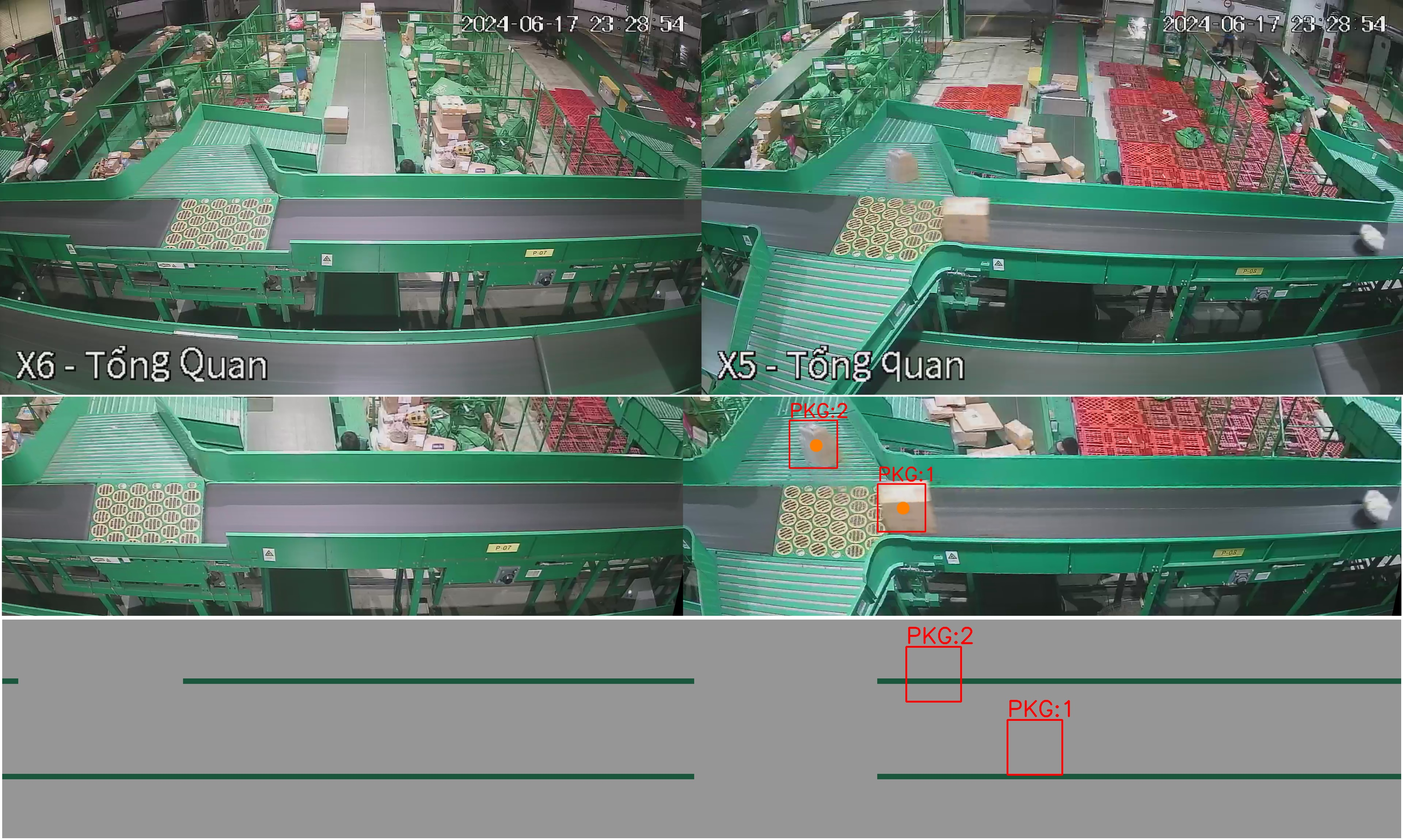
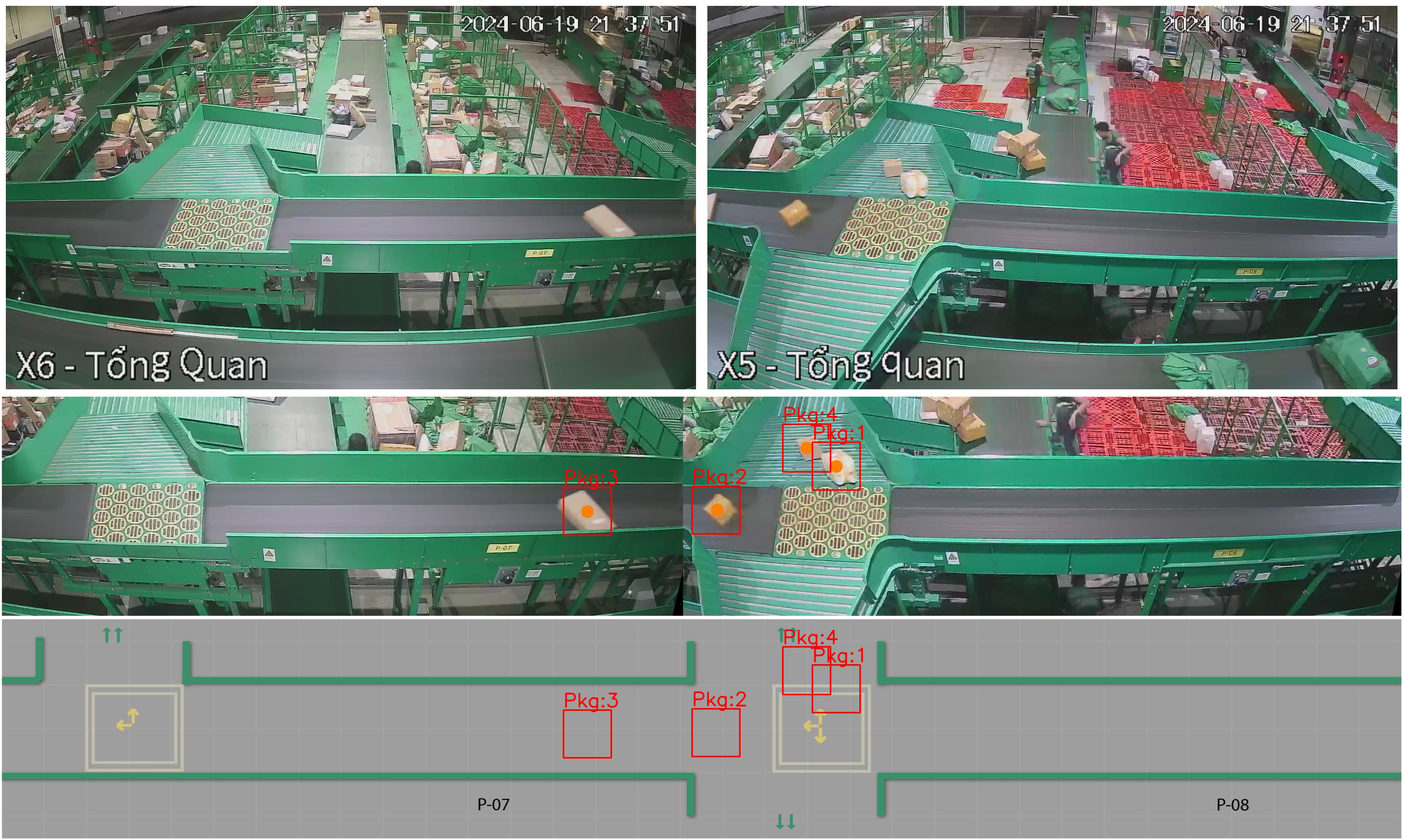
done track on 2 video

diff --git a/run.py b/run.py
@@ -10,7 +10,7 @@ import sys
 sys.path.append('./gvision')
 from gvision.tracker.byte_tracker import BYTETracker
 
-H = 500
+H = 700
 W  = 4408
 
 with open('./sample_data/roi_fullview.txt', 'r') as file:
@@ -18,12 +18,16 @@ with open('./sample_data/roi_fullview.txt', 'r') as file:
     roi_data = [float(x) for x in roi_data]
 
 # Convert ROI data into pairs
-roi_pairs = [(roi_data[i] * W, roi_data[i + 1] * 700) for i in range(0, len(roi_data), 2)]
+roi_pairs = [(roi_data[i] * W, roi_data[i + 1] * H) for i in range(0, len(roi_data), 2)]
 roi_pairs = [(int(x), int(y)) for x, y in roi_pairs]
 print("roi_pairs: ", roi_pairs)
-
 # Initialize the YOLO model
 model = YOLO('./pretrained/240124_yolov8s_package_640.pt')
+
+# save video output
+OUTPUT_VIDEO = "video_output_1.mp4"
+FPS = 15
+
 # init tracker
 track_thresh  = 0.5
 track_buffer = 30
@@ -52,11 +56,13 @@ def is_point_in_polygon(point, polygon):
 def process_video(video_path, result_queue, thread_name, homo_matrix):
     cap = cv2.VideoCapture(video_path)
     frame_count = 0
+    fps = cap.get(cv2.CAP_PROP_FPS)
+    print("FPS: ", fps)
     while cap.isOpened():
         ret, frame = cap.read()
         if not ret:
             break
-        if thread_name == "Thread_1" and frame_count < 14:
+        if thread_name == "Thread_1" and frame_count < 0:
             frame_count += 1
             continue
         predictions = model.predict(source = frame,
@@ -149,6 +155,19 @@ def match_points_across_frames(dict_points_all_frame, threshold=100):
     return matched_points
 
 def post_process(result_queues):
+    # save video output
+
+    fourcc = cv2.VideoWriter_fourcc(*'mp4v')
+    video_save = cv2.VideoWriter(OUTPUT_VIDEO, fourcc, FPS, (3840, 2298)) 
+
+    blink_interval_1 = 0.5  # Blinking interval in seconds
+    blink_state_1 = True  # Initial state of the blinking light
+    last_blink_time_1 = time.time()
+
+    blink_interval_2 = 0.5  # Blinking interval in seconds
+    blink_state_2 = True  # Initial state of the blinking light
+    last_blink_time_2 = time.time()
+
     while True:
         try:
             image_bgr = np.ones((H, W, 3), dtype=np.uint8) * 128
@@ -166,26 +185,17 @@ def post_process(result_queues):
                     dict_points_all_frame[thread_name] = results
                 if thread_name == "Thread_1":
                     homo_matrix = np.loadtxt('./sample_data/frame_video_1/matrix_homo.txt')
-                    warped_image1 = cv2.warpPerspective(frame, homo_matrix, (W, 700))
+                    warped_image1 = cv2.warpPerspective(frame, homo_matrix, (W, H))
                     frame1 = frame
-                else:
+                elif thread_name == "Thread_2":
                     homo_matrix = np.loadtxt('./sample_data/frame_video_2/matrix_homo.txt')
-                    warped_image2 = cv2.warpPerspective(frame, homo_matrix, (W, 700))
+                    warped_image2 = cv2.warpPerspective(frame, homo_matrix, (W, H))
                     frame2 = frame
 
-            combined_top_frame = np.hstack((frame2, frame1))
-            combined_width = combined_top_frame.shape[1]
-            combined_width = combined_top_frame.shape[1]
+            overview_image = np.ones((H, W, 3), dtype=np.uint8)* 150
 
-            overview_image = np.ones((700, W, 3), dtype=np.uint8)* 150
-            overview_image_BGR = np.ones((700, W, 3), dtype=np.uint8)* 150
-
-            cv2.line(overview_image_BGR, (0, 200), (W, 200), (60, 86, 26), 15)
-            cv2.line(overview_image_BGR, (0, 500), (W, 500), (60, 86, 26), 15)
-
-            overview_image_BGR = cv2.resize(overview_image_BGR, (combined_width, int(overview_image_BGR.shape[0] * (combined_width / overview_image_BGR.shape[1]))))
-            cv2.rectangle(overview_image_BGR, (1900, 0), (2400, 700), (150, 150, 150), -1)
-            cv2.rectangle(overview_image_BGR, (50, 0), (500, 200), (150, 150, 150), -1)
+            overview_image_BGR = cv2.imread("./sample_data/full_view.jpg")
+            overview_image_BGR = cv2.resize(overview_image_BGR, (W, H))
 
             overview_image[:, :2146] = warped_image2[:, :2146]
             overview_image[:, 2146:] = warped_image1[:, 2146:]
@@ -197,9 +207,9 @@ def post_process(result_queues):
             for match in matched_points:
                 if len(match) == 2:
                     p1, p2 = match
-                    cv2.circle(overview_image, p1, 20, (255, 0, 0), -1)
-                    cv2.circle(overview_image, p2, 20, (255, 0, 0), -1)
-                    cv2.line(overview_image, p1, p2, (0, 127, 255), 30)
+                    cv2.circle(overview_image, p1, 10, (255, 0, 0), -1)
+                    cv2.circle(overview_image, p2, 10, (255, 0, 0), -1)
+                    cv2.line(overview_image, p1, p2, (255, 255, 255), 10)
                     
                     box_xyxy = [int((p1[0] + p2[0]) * 0.5 - size_box/2),
                                   int((p1[1] + p2[1]) * 0.5 - size_box/2),
@@ -220,37 +230,56 @@ def post_process(result_queues):
                 bboxes = output.tlwh
                 id = output.track_id
                 bboxes = [bboxes[0], bboxes[1] , bboxes[0] + bboxes[2], bboxes[1] + bboxes[3], id]
-                overview_image = cv2.putText(overview_image, f'PKG:{str(id)}', (int(bboxes[0]), int(bboxes[1] - 10)), cv2.FONT_HERSHEY_SIMPLEX, 2, (0, 0, 255), 4 , cv2.LINE_AA)
+                overview_image = cv2.putText(overview_image, f'Pkg:{str(id)}', (int(bboxes[0]), int(bboxes[1] - 10)), cv2.FONT_HERSHEY_SIMPLEX, 2, (0, 0, 255), 4 , cv2.LINE_AA)
                 overview_image = cv2.rectangle(overview_image, (int(bboxes[0]), int(bboxes[1])), (int(bboxes[2]), int(bboxes[3])), (0, 0, 255), 3 )
 
-                overview_image_BGR = cv2.putText(overview_image_BGR, f'PKG:{str(id)}', (int(bboxes[0]), int(bboxes[1] - 10)), cv2.FONT_HERSHEY_SIMPLEX, 2, (0, 0, 255), 4 , cv2.LINE_AA)
+                overview_image_BGR = cv2.putText(overview_image_BGR, f'Pkg:{str(id)}', (int(bboxes[0]), int(bboxes[1] - 10)), cv2.FONT_HERSHEY_SIMPLEX, 2, (0, 0, 255), 4 , cv2.LINE_AA)
                 overview_image_BGR = cv2.rectangle(overview_image_BGR, (int(bboxes[0]), int(bboxes[1])), (int(bboxes[2]), int(bboxes[3])), (0, 0, 255), 3 )
-                
+
+                # blink led
+                if 2800 < bboxes[0] < 3200:
+                    current_time = time.time()
+                    if current_time - last_blink_time_1 > blink_interval_1:
+                        blink_state_1 = not blink_state_1
+                        last_blink_time_1 = current_time
+                    if blink_state_1:
+                        cv2.circle(overview_image_BGR, (2900, 100), 40, (0, 255, 255), -1)
+
+                if 700 < bboxes[0] < 1100:
+                    current_time = time.time()
+                    if current_time - last_blink_time_2 > blink_interval_2:
+                        blink_state_2 = not blink_state_2
+                        last_blink_time_2 = current_time
+                    if blink_state_2:
+                        cv2.circle(overview_image_BGR, (700, 100), 40, (0, 255, 255), -1)
 
             # draw to visualize
-
-           
-            
             # Draw bounding boxes around frame1 and frame2
-            cv2.rectangle(frame1, (0, 0), (frame1.shape[1], frame1.shape[0]), (255, 255, 255), 10)
-            cv2.rectangle(frame2, (0, 0), (frame2.shape[1], frame2.shape[0]), (255, 255, 255), 10)
+            cv2.rectangle(frame1, (0, 0), (frame1.shape[1], frame1.shape[0]), (255, 255, 255), 30)
+            cv2.rectangle(frame2, (0, 0), (frame2.shape[1], frame2.shape[0]), (255, 255, 255), 30)
             cv2.rectangle(overview_image, (0, 0), (overview_image.shape[1], overview_image.shape[0]), (255, 255, 255), 10)
             cv2.rectangle(overview_image_BGR, (0, 0), (overview_image_BGR.shape[1], overview_image_BGR.shape[0]), (255, 255, 255), 10)
 
+            combined_top_frame = np.hstack((frame2, frame1))
+            combined_width = combined_top_frame.shape[1]
+            overview_image_BGR = cv2.resize(overview_image_BGR, (combined_width, int(overview_image.shape[0] * (combined_width / overview_image.shape[1]))))
             overview_image = cv2.resize(overview_image, (combined_width, int(overview_image.shape[0] * (combined_width / overview_image.shape[1]))))
+
             final_view = np.vstack((combined_top_frame, overview_image))
             final_view = np.vstack((final_view, overview_image_BGR))
-            
-            cv2.imwrite("output.jpg", final_view)
+            # cv2.imwrite("output.jpg", final_view)
+            video_save.write(final_view)
             #   /////////////////
         except Queue.Empty:
             continue
+    out.release()
+    print("====== SUCCESS =====")
 
 if __name__ == "__main__":
 
     result_queues = []
-    video_paths = ["./sample_data/x5sonnt.mp4", 
-                   "./sample_data/x6sonnt.mp4"
+    video_paths = ["./sample_data/x5.mp4", 
+                   "./sample_data/x6.mp4"
                    ]
 
     # Create and start the threads
